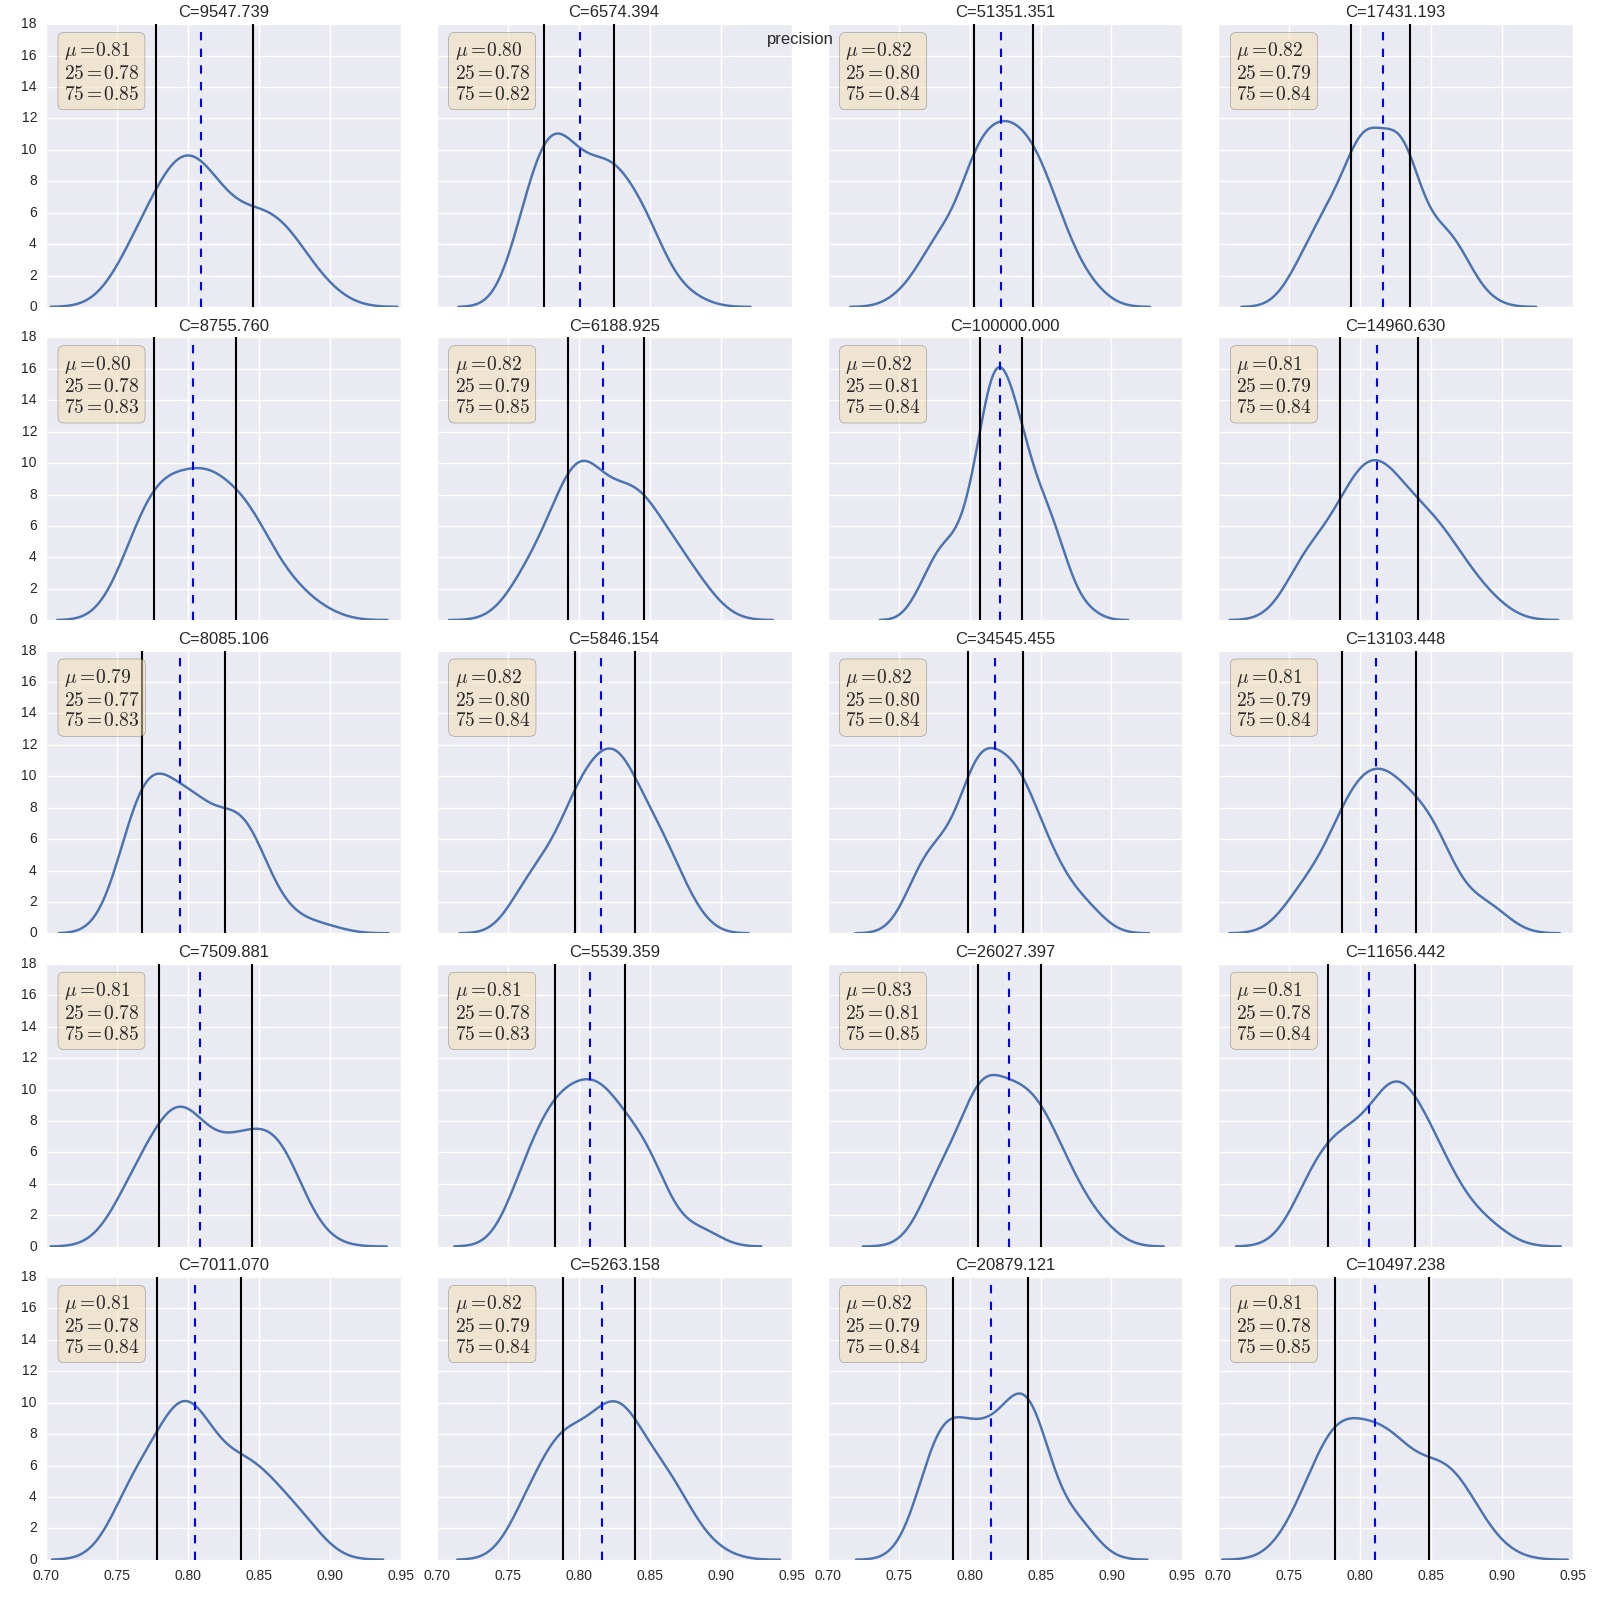
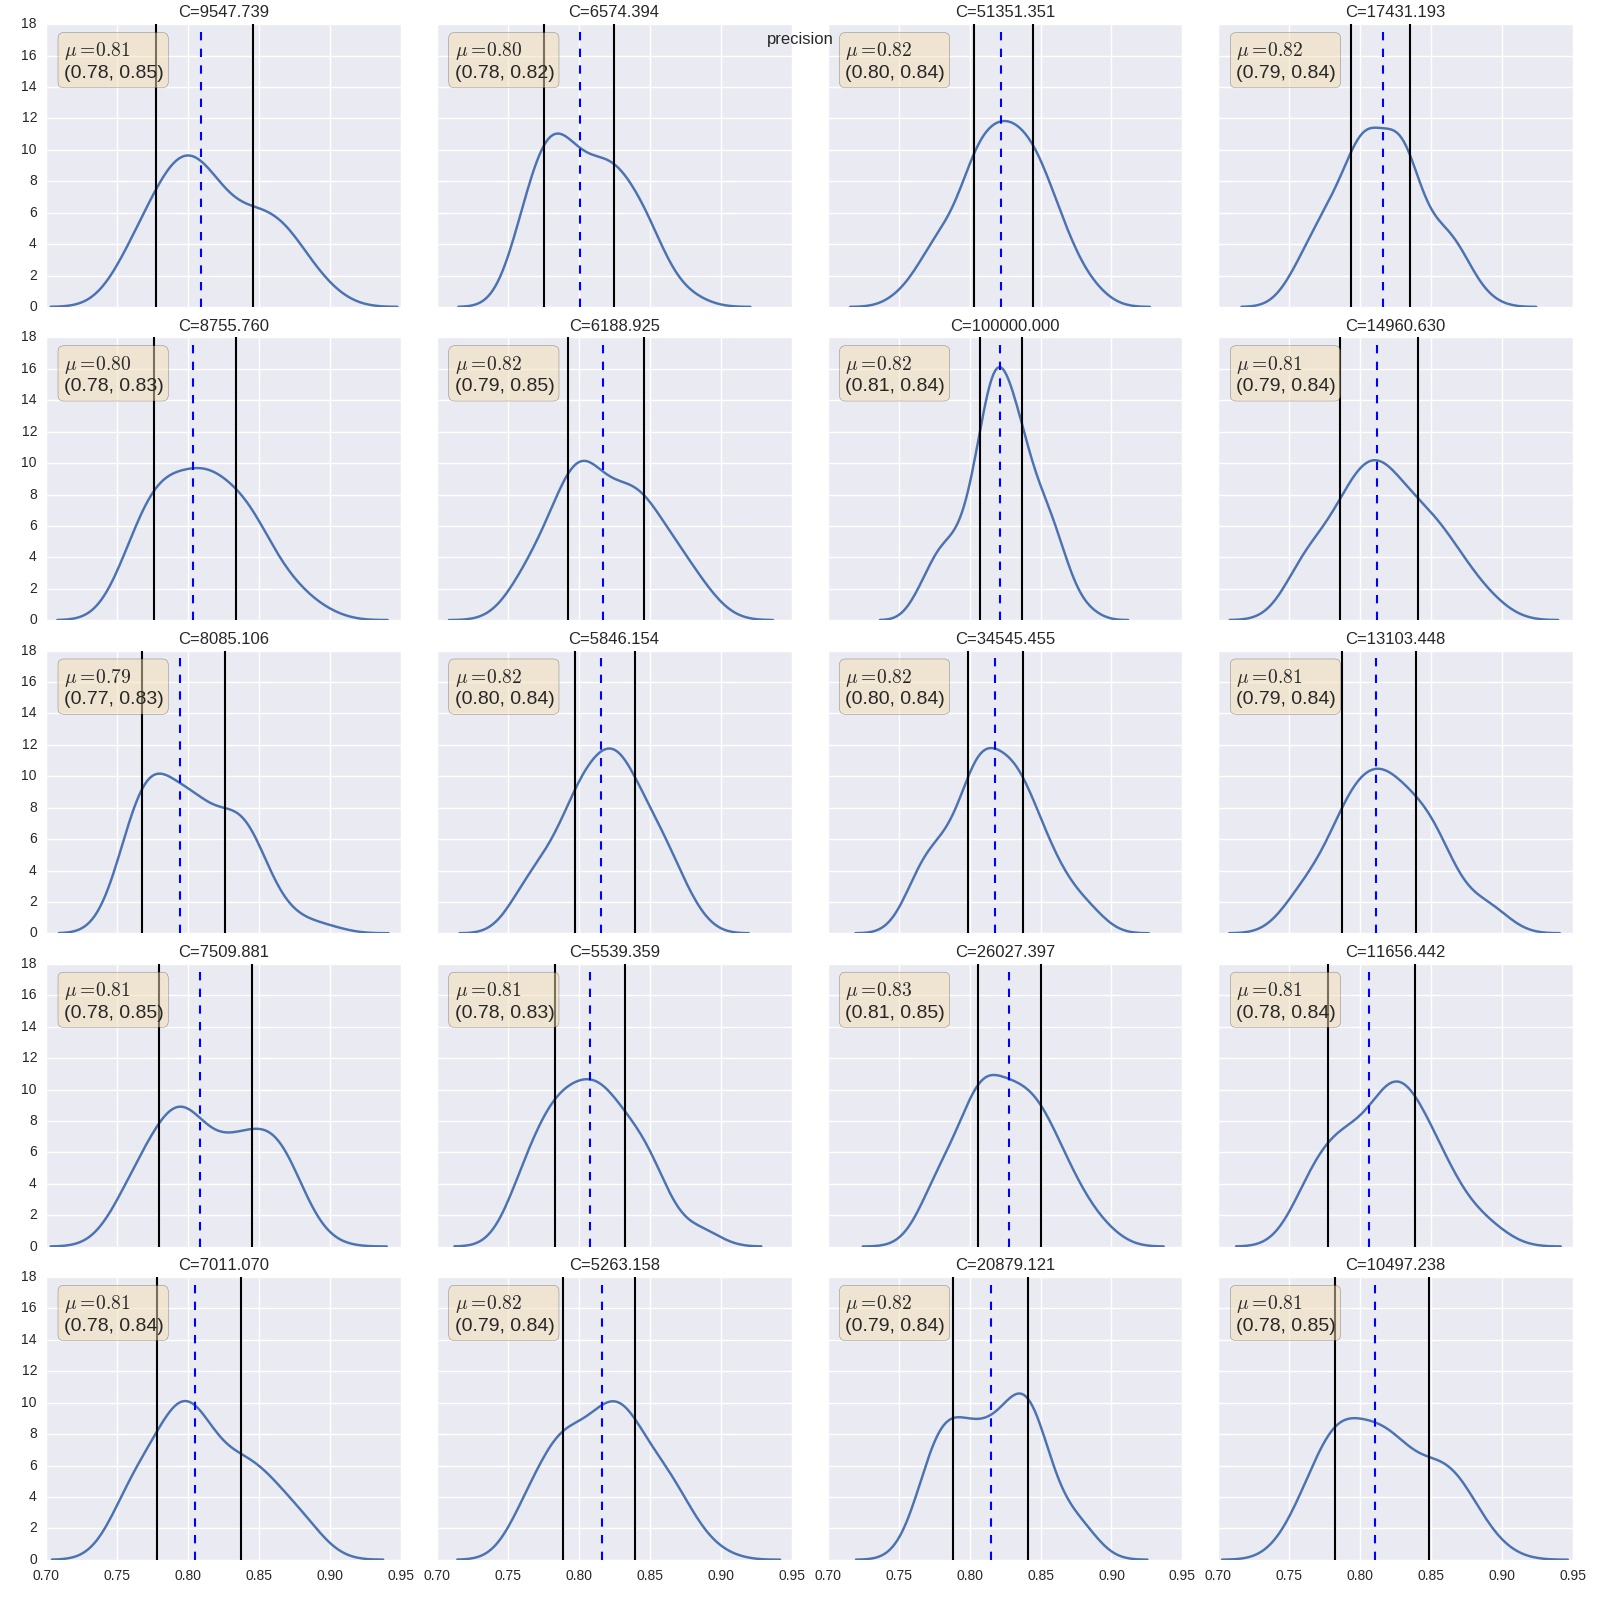
Fixed graphs

diff --git a/results.py b/results.py
@@ -142,7 +142,7 @@ for x in range(0,4):
 		axf[y%5][y/5].axvline(now_precent[y][0], ls="-", linewidth=1.5,color="black")
 		axf[y%5][y/5].axvline(now_precent[y][1], ls="-", linewidth=1.5,color="black")
 		axf[y%5][y/5].set_title("C="+"%.3f" % (float(Alpha_vals[y])**-1))
-		text = '$\mu=%.2f$\n$\mathrm{25}=%.2f$\n$\mathrm{75}=%.2f$'%(float(now_mean[y]), float(now_precent[y][0]),float(now_precent[y][1]))
+		text = '$\mu=%.2f$\n(%.2f, %.2f)'%(float(now_mean[y]), float(now_precent[y][0]),float(now_precent[y][1]))
 		props = dict(boxstyle='round', facecolor='wheat', alpha=0.5)
 		axf[y%5][y/5].text(0.05, 0.95, text, transform=axf[y%5][y/5].transAxes, fontsize=14,
         verticalalignment='top', bbox=props)
